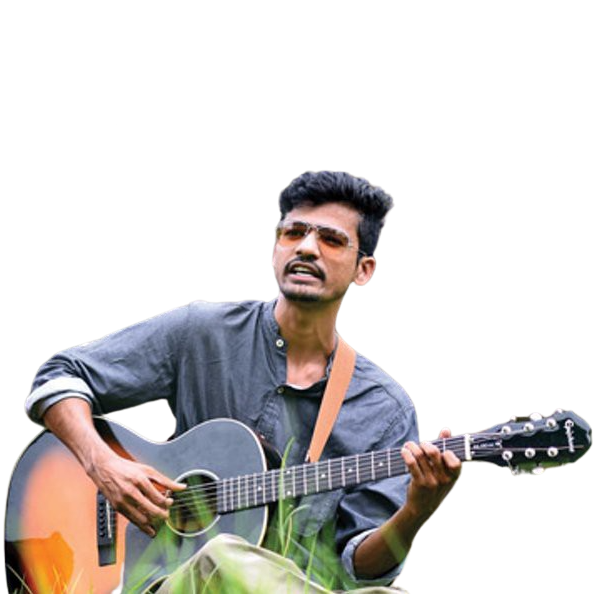
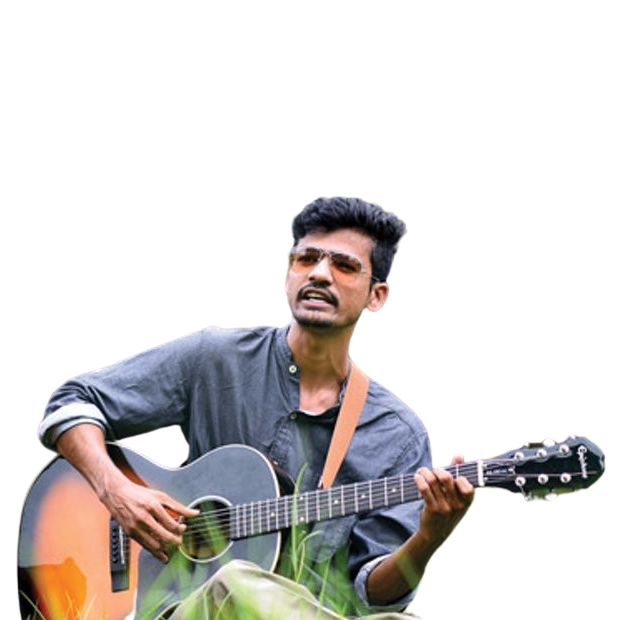
update

Changed region(s): [[0.0, 0.2727, 1.0, 1.0]]

diff --git a/lemongrassgoa/index.html b/lemongrassgoa/index.html
@@ -52,17 +52,17 @@
         <p class="w3-opacity hovereffect"><i>We make music, better.<br />Three instruments x three voices</i></p>
         <div class="w3-row w3-padding-32">
             <div class="w3-third hovereffect">
-                <img src="images/joy.png" class="w3-round personal-photo" alt="Joy Dawson" style="transform: translate(25px, -25px);"/>
+                <img src="images/joy.png" class="w3-round personal-photo" alt="Joy Dawson" style="transform:  scale(1.15) translate(25px, -35px);" />
                 <p><b>Joy Dawson</b></p>
                 <p>Guitar<br />Vocalist</p>
             </div>
             <div class="w3-third hovereffect">
-                <img src="images/cecilia.png" class="w3-round personal-photo" alt="Cecilia Dawson"/>
+                <img src="images/cecilia.png" class="w3-round personal-photo" alt="Cecilia Dawson" style="transform: translateY(-25px);" />
                 <p><b>Cecilia Dawson</b></p>
                 <p>Vocalist</p>
             </div>
             <div class="w3-third hovereffect">
-                <img src="images/anand.png" class="w3-round personal-photo" alt="Anand Lobo" />
+                <img src="images/anand.png" class="w3-round personal-photo" alt="Anand Lobo" style="transform: translateY(-25px);" />
                 <p><b>Anand Lobo</b></p>
                 <p>Mandolin<br />Viola<br />Vocalist</p>
             </div>

diff --git a/lemongrassgoa/style.css b/lemongrassgoa/style.css
@@ -44,11 +44,14 @@ body, h1, h2 {
 }
 
 .personal-photo{
-    transform: translateY(-25px);
+    transition: filter .2s;
+    filter: drop-shadow(0px 0px 1px #000);
     width: 100%;
-    /* filter: drop-shadow(0px 0px 5px #000); */
     -webkit-mask-image: linear-gradient(to top, transparent 1%, black 15%);
             mask-image: linear-gradient(to top, transparent 1%, black 15%);
+}
+.personal-photo:hover{
+    filter: drop-shadow(0px 0px 3px #000);
 }
 
 #repertoirelist {
